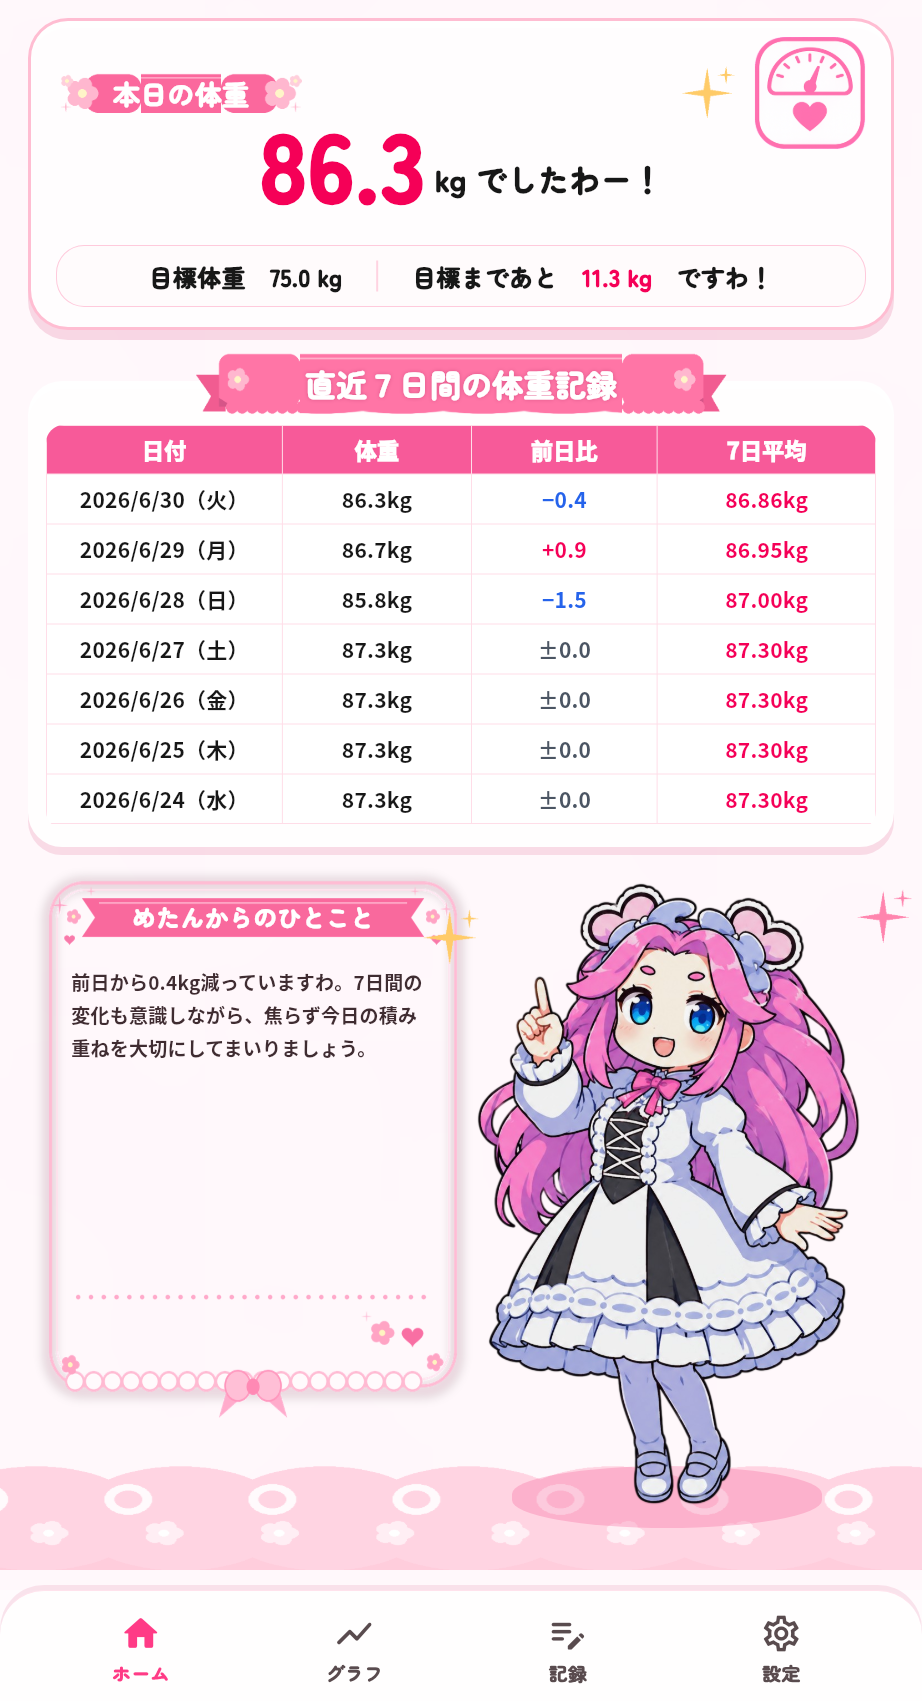
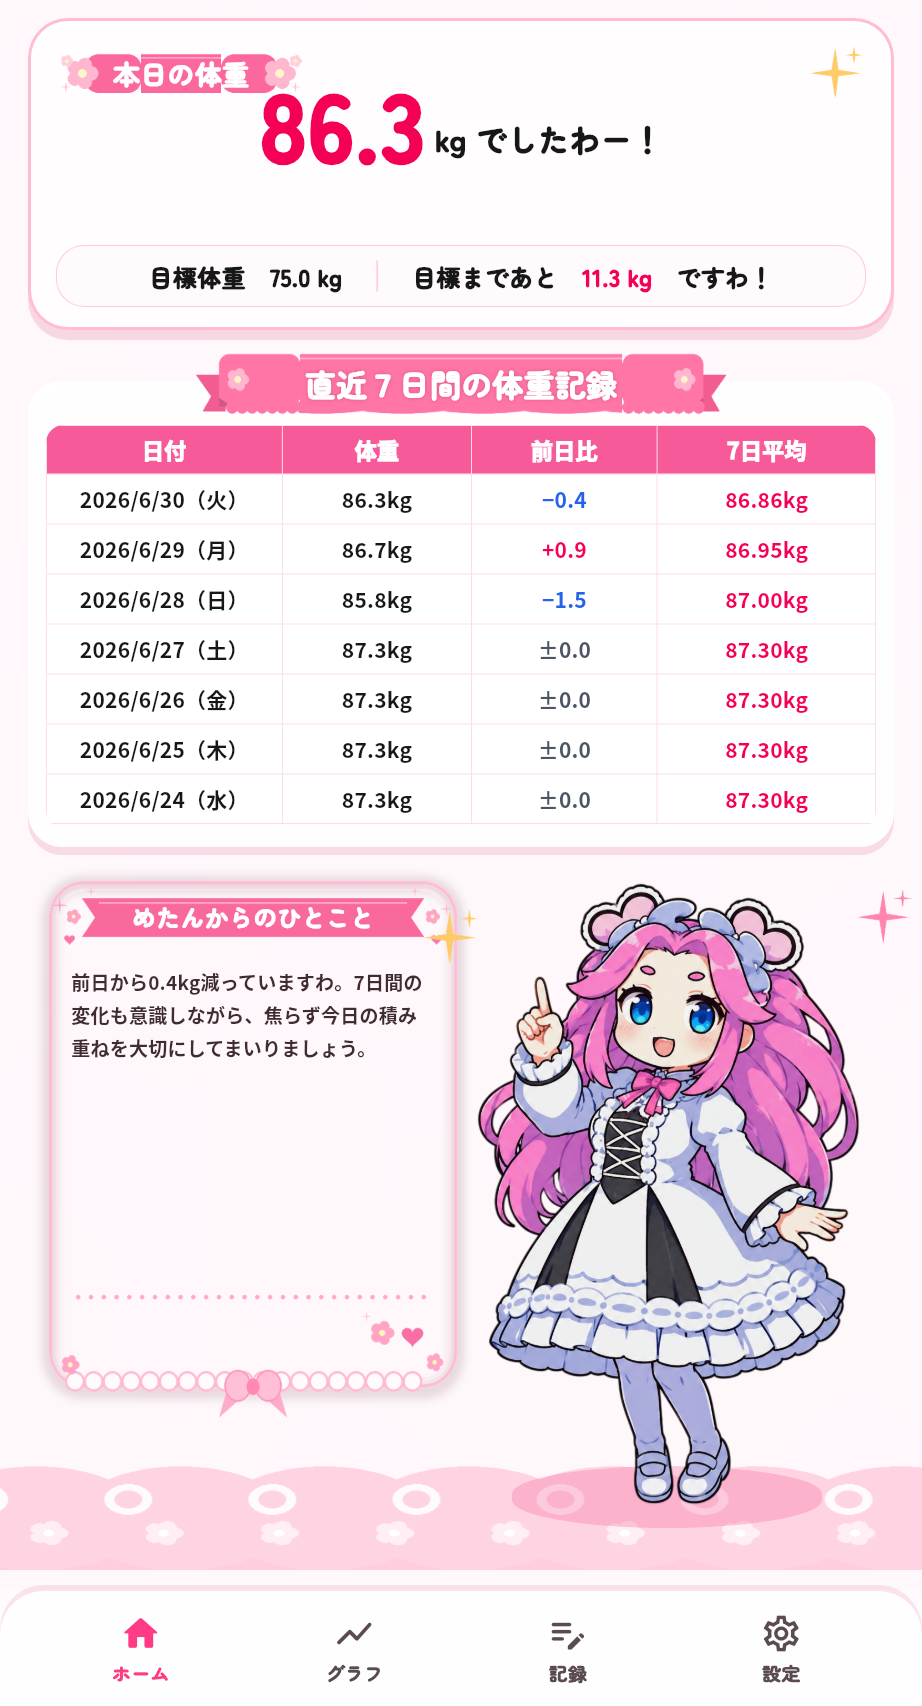
Remove redundant report weight shortcut

diff --git a/lib/screens/report_screen.dart b/lib/screens/report_screen.dart
@@ -12,7 +12,6 @@ const _reportPink = Color(0xFFFF3B86);
 const _deepPink = Color(0xFFF50057);
 const _blue = Color(0xFF2563EB);
 const _ink = Color(0xFF171717);
-const _weightInputIconAsset = 'assets/images/weight_input_icon.png';
 
 class ReportScreen extends ConsumerWidget {
   const ReportScreen({super.key});
@@ -354,8 +353,6 @@ class _TodayWeightCard extends StatelessWidget {
                 height: 62,
                 excludeFromSemantics: true,
               ),
-              const SizedBox(width: 16),
-              const _WeightInputShortcut(),
             ],
           ),
           Transform.translate(
@@ -433,34 +430,6 @@ class _TodayWeightCard extends StatelessWidget {
             ),
           ),
         ],
-      ),
-    );
-  }
-}
-
-class _WeightInputShortcut extends StatelessWidget {
-  const _WeightInputShortcut();
-
-  @override
-  Widget build(BuildContext context) {
-    return Semantics(
-      button: true,
-      label: '体重入力画面を開く',
-      child: GestureDetector(
-        behavior: HitTestBehavior.opaque,
-        onTap: () {
-          Navigator.of(context).pushReplacement(
-            MaterialPageRoute<void>(
-              builder: (_) => const HomeScreen(forceInput: true),
-            ),
-          );
-        },
-        child: Image.asset(
-          _weightInputIconAsset,
-          width: 112,
-          height: 112,
-          semanticLabel: '体重入力アイコン',
-        ),
       ),
     );
   }

diff --git a/test/home_screen_golden_test.dart b/test/home_screen_golden_test.dart
@@ -455,8 +455,8 @@ void main() {
     expect(find.text('目標まであと　11.3 kg　ですわ！'), findsOneWidget);
     expect(find.textContaining('今日も記録えらいですわっ'), findsNothing);
     expect(find.text('直近７日間の体重記録'), findsOneWidget);
-    expect(find.bySemanticsLabel('体重入力画面を開く'), findsOneWidget);
-    expect(find.bySemanticsLabel('体重入力アイコン'), findsOneWidget);
+    expect(find.bySemanticsLabel('体重入力画面を開く'), findsNothing);
+    expect(find.bySemanticsLabel('体重入力アイコン'), findsNothing);
     expect(find.text('ホーム'), findsOneWidget);
     expect(find.text('グラフ'), findsOneWidget);
     expect(find.text('記録'), findsOneWidget);
@@ -498,7 +498,7 @@ void main() {
     );
   });
 
-  testWidgets('weight input icon opens forced input screen from report', (
+  testWidgets('record footer opens forced input screen from report', (
     tester,
   ) async {
     await tester.binding.setSurfaceSize(const Size(922, 1706));
@@ -529,7 +529,7 @@ void main() {
     );
     await tester.pumpAndSettle();
 
-    await tester.tap(find.bySemanticsLabel('体重入力画面を開く'));
+    await tester.tap(find.text('記録'));
     await tester.pumpAndSettle();
 
     expect(find.byType(HomeScreen), findsOneWidget);
